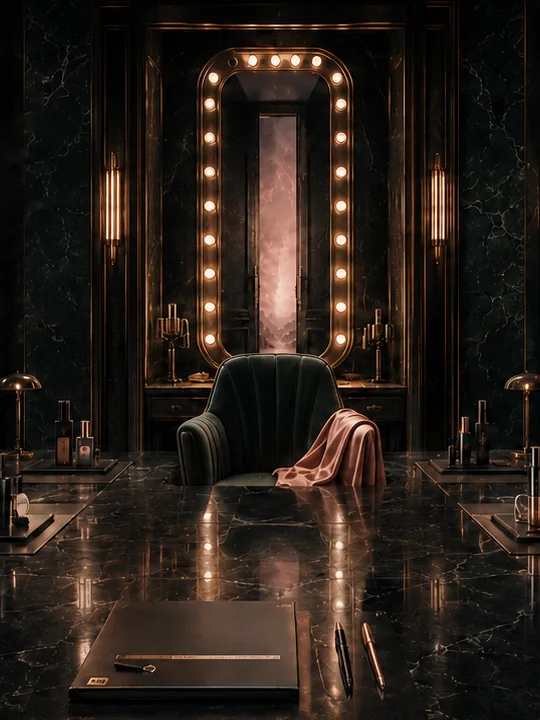
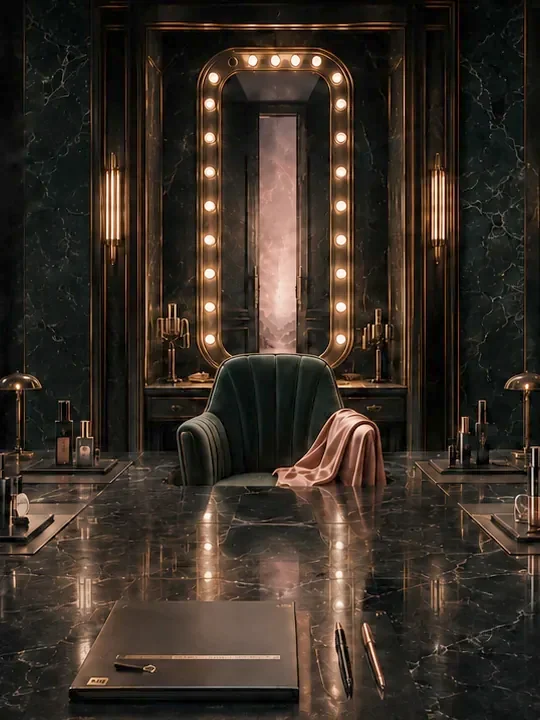
Room 04 reads: lift the boardroom out of the dark

diff --git a/WORKLOG.md b/WORKLOG.md
@@ -5,6 +5,42 @@ date · agent · what changed · what was left alone · anything unpushed.
 
 ---
 
+## 2026-10-01 · Claude (Cowork) — Shopify stock + ship date, and a brighter Room 04
+
+SHOPIFY (live store, no repo change):
+- Stocked the five FOUNDER collection products at 5 each — Clean Break,
+  Double Take, Hold the Room, Opening Line, and Smooth Talker at 5 PER SHADE
+  (20 Light / 25 Medium / 35 Deep = 15). 35 units total.
+- Set founder.badge = "Ships October 12" on those same five. The namespace
+  had no founder.* metafields at all before this, so nothing was clobbered —
+  worth knowing: descriptor and hook are unset too, so the catalog is
+  running on its hand-written fallbacks.
+- Serums deliberately untouched per Shelby: Thirst Trap 98, C Me Glow 75,
+  Bounce Back 74, Trio 149, no badge. The trio was treated as a serum.
+
+REPO:
+- public/editorial/rooms/collection-mirror.webp — gamma 1.5 lift, mean
+  brightness 18.1 -> 37.1 of 255. The boardroom was so dark the products on
+  the table did not read at all.
+- collection-mirror-m.webp — gamma 1.3, mean 32.5 -> 46.9. Different gamma
+  on purpose: the mobile crop centres on the lit mirror and starts brighter,
+  so matching the OPERATION would not have matched the RESULT.
+- Gamma not brightness-multiply, so 255 stays 255 and the mirror bulbs
+  cannot clip. Highlights are mathematically safe. Files grew 98->121 KB and
+  49->55 KB, which is the cost of actually having shadow detail.
+- Only src/app/page.tsx (RoomHero, Room 04) uses these two files. The text
+  scrim over them is near-opaque on the left where the copy sits, so the
+  lift does not touch contrast on "Private tools. Public power."
+
+LEFT ALONE, FLAGGED TO SHELBY:
+- Two Shopify descriptions now contradict the badge: HOLD THE ROOM says
+  "In stock. Ships within one business day" and SMOOTH TALKER says "In stock
+  variants ship within one business day". Offered to fix; not touched.
+- src/app/founder-collection/page.tsx still describes the line as "one
+  product takes money, three take reservations and two aren't made". All
+  five now have prices and stock in Shopify. Stale framing, worth a pass
+  before the 12th.
+
 ## 2026-08-25 · Claude (Cowork) — deploys stopped at b60c6b9
 Shelby sent a Vercel deployment URL. Production was ~18h stale. Diagnosed
 from the outside (no Vercel log access):
